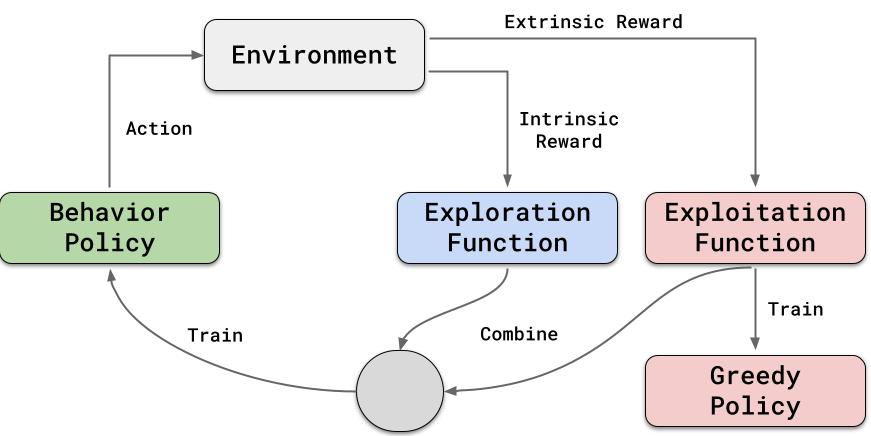
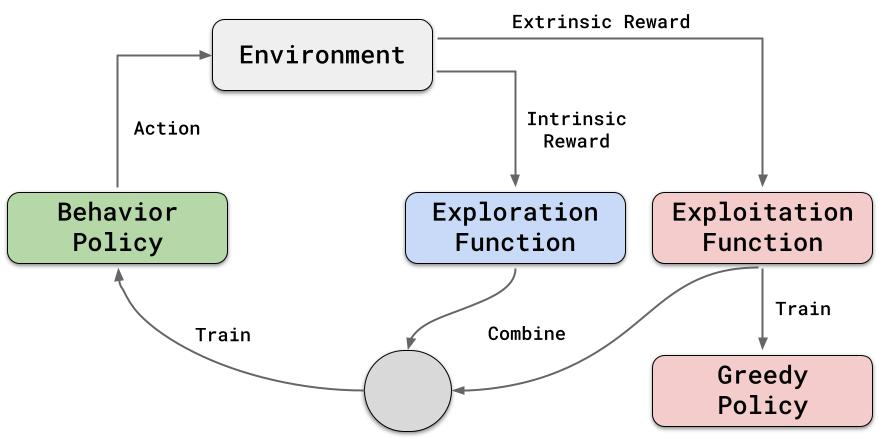
borders

diff --git a/assets/research.html b/assets/research.html
@@ -150,7 +150,7 @@ html {
   <tr><td colspan="2">
 
   <p><b><font size=+1> Exploration for RL </font></b></p>
-  <img src="teaser_nips.jpg" width="20%" style="border-radius:0px; display: inline; float: left; margin: 0 11 0 0 " >
+  <img src="teaser_nips.jpg" width="18%" style="border-radius:0px; display: inline; float: left; margin: 0 11 0 0 " >
   <img src="exploration_rl.jpg" width="40%" style="border-radius:0px; display: inline; float: left; margin: 0 11 0 0" >
 
   <p><b>References </b></font></p>
